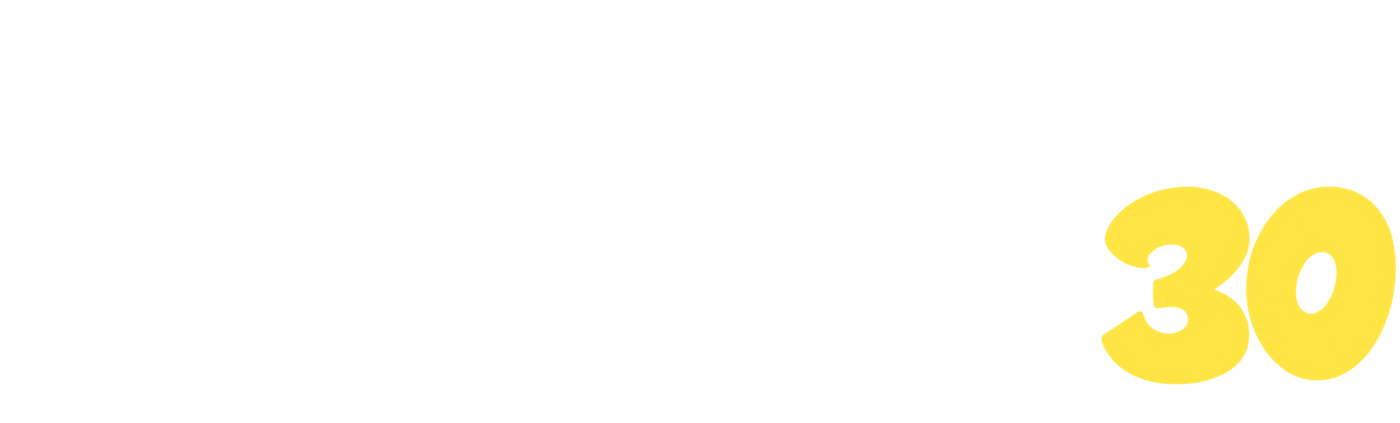
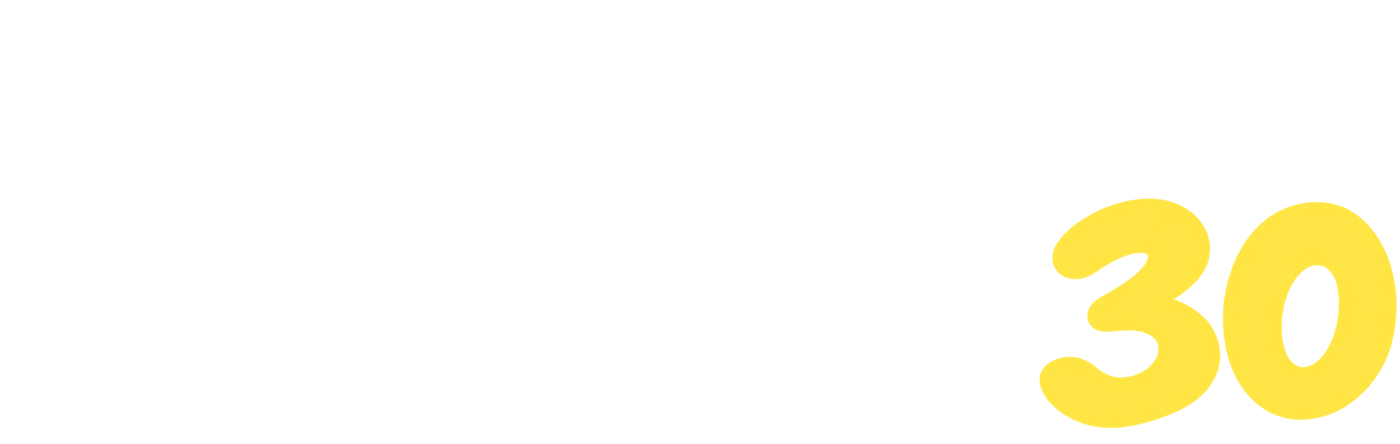
FVのタイトルロゴを特集ページと同じ手描きロゴに差し替え

Changed region(s): [[0.7371, 0.4303, 1.0, 0.9835], [0.9214, 0.4303, 1.0, 0.6454]]

diff --git a/index.html b/index.html
@@ -143,7 +143,7 @@ img{max-width:100%;height:auto;display:block}
 <!-- ===== FV ===== -->
 <section class="fv">
   <p class="fv-lbl">30種類を飲み比べ</p>
-  <img class="fv-ttl" src="img/title.png" width="1400" height="423" alt="澤井珈琲ドリップコーヒー オールスターズ30">
+  <img class="fv-ttl" src="img/title.png" width="1400" height="444" alt="澤井珈琲ドリップコーヒー オールスターズ30">
   <p class="fv-sub">ドリップバッグ<b>30</b>袋入り</p>
   <div class="fv-wall" id="wall" aria-hidden="true"></div>
   <img class="fv-cup" src="img/fv-sp-cup.webp" width="800" height="783" alt="">

diff --git a/README.md b/README.md
@@ -5,7 +5,7 @@
 予約キャンペーン終了後も販売するため、**キャンペーンの内容・価格はFV下の「キャンペーン詳細」1ブロックだけ**に入れています。終了後はそのブロック（`<!-- ===== キャンペーン詳細（1枚）` のコメントの section）を削除すれば、そのまま通常販売用になります。
 
 - `index.html` … ページ本体（HTML・CSS・JSを1ファイル）
-- `img/title.png` … FVのタイトル（ダウンロードの「澤井珈琲ドリップコーヒー オールスターズ30.png」を白＋「30」黄色 #ffe644 に色替え）
+- `img/title.png` … FVのタイトル（ダウンロードの「澤井珈琲オールスターズ30 手描きロゴ.png」（特集ページのFVと同じロゴ）を白＋「30」黄色 #ffe644 に色替え）
 - `img/` のそのほか：logo.png／fv-sp-cup.webp（カップ）／photo.jpg（写真）／pk-*.webp（ドリップバッグ30種の切り抜き）／fv-sp.jpg（今は未使用）
 
 ## 構成
